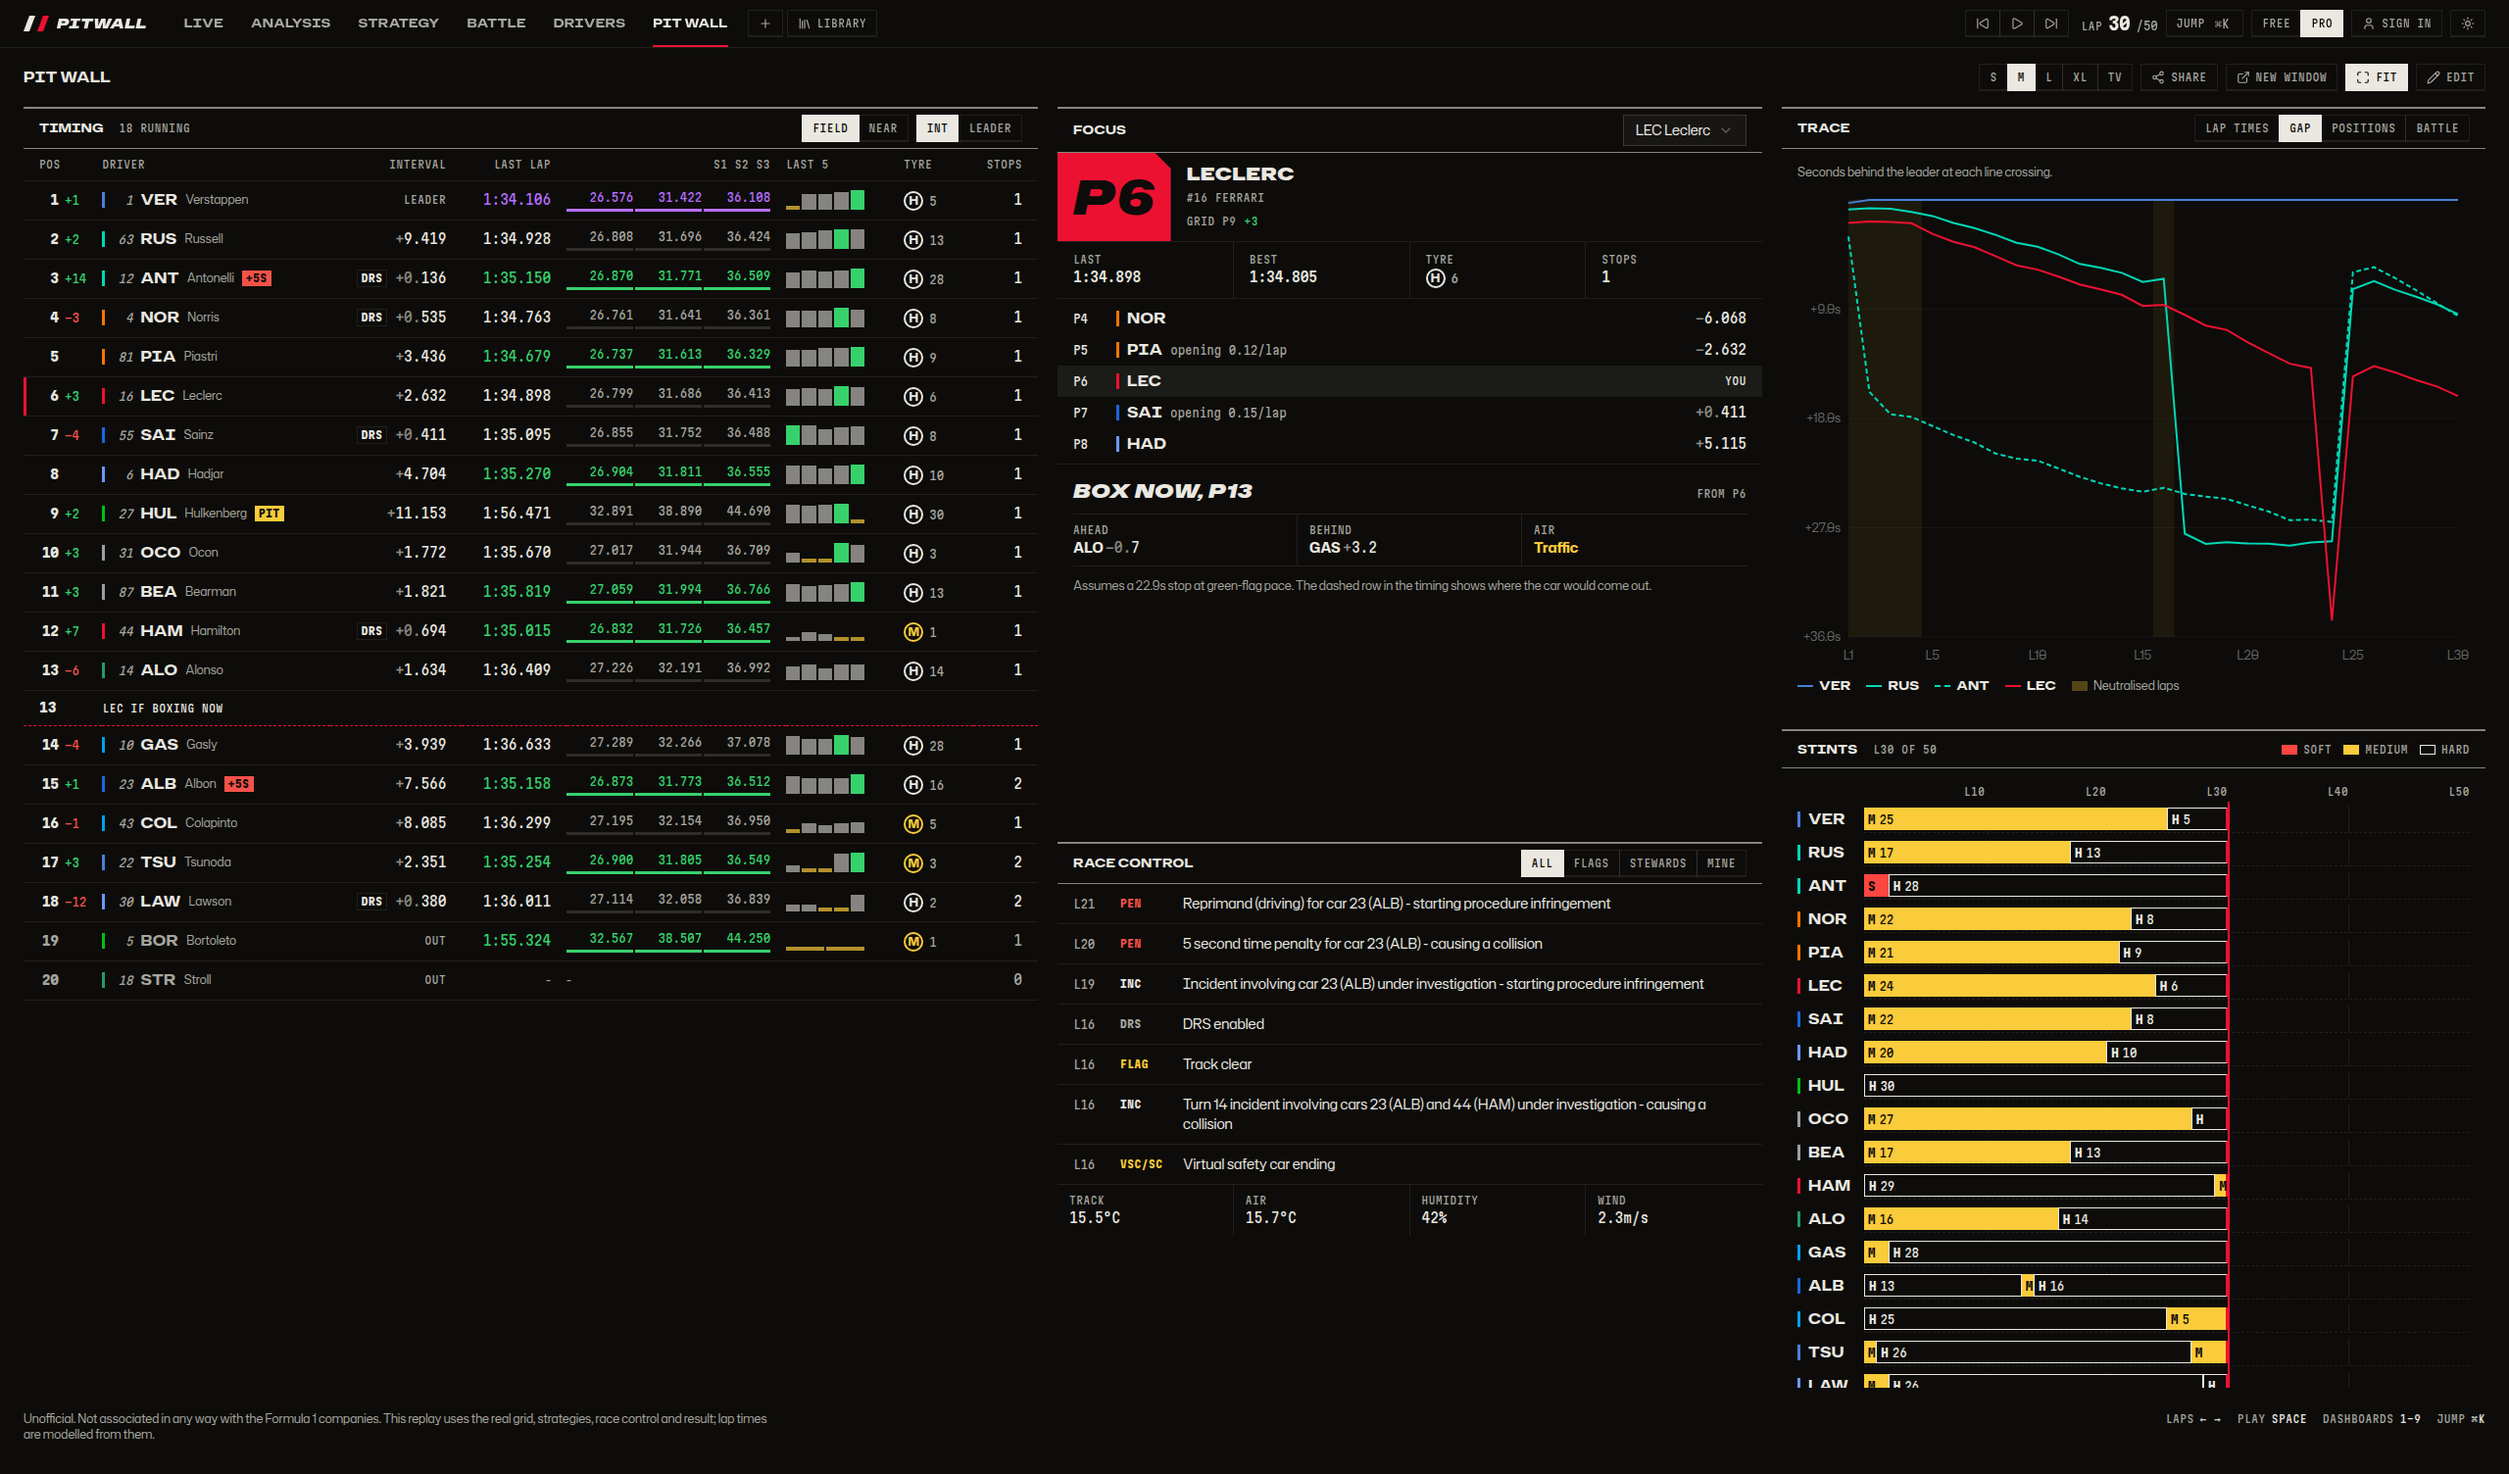
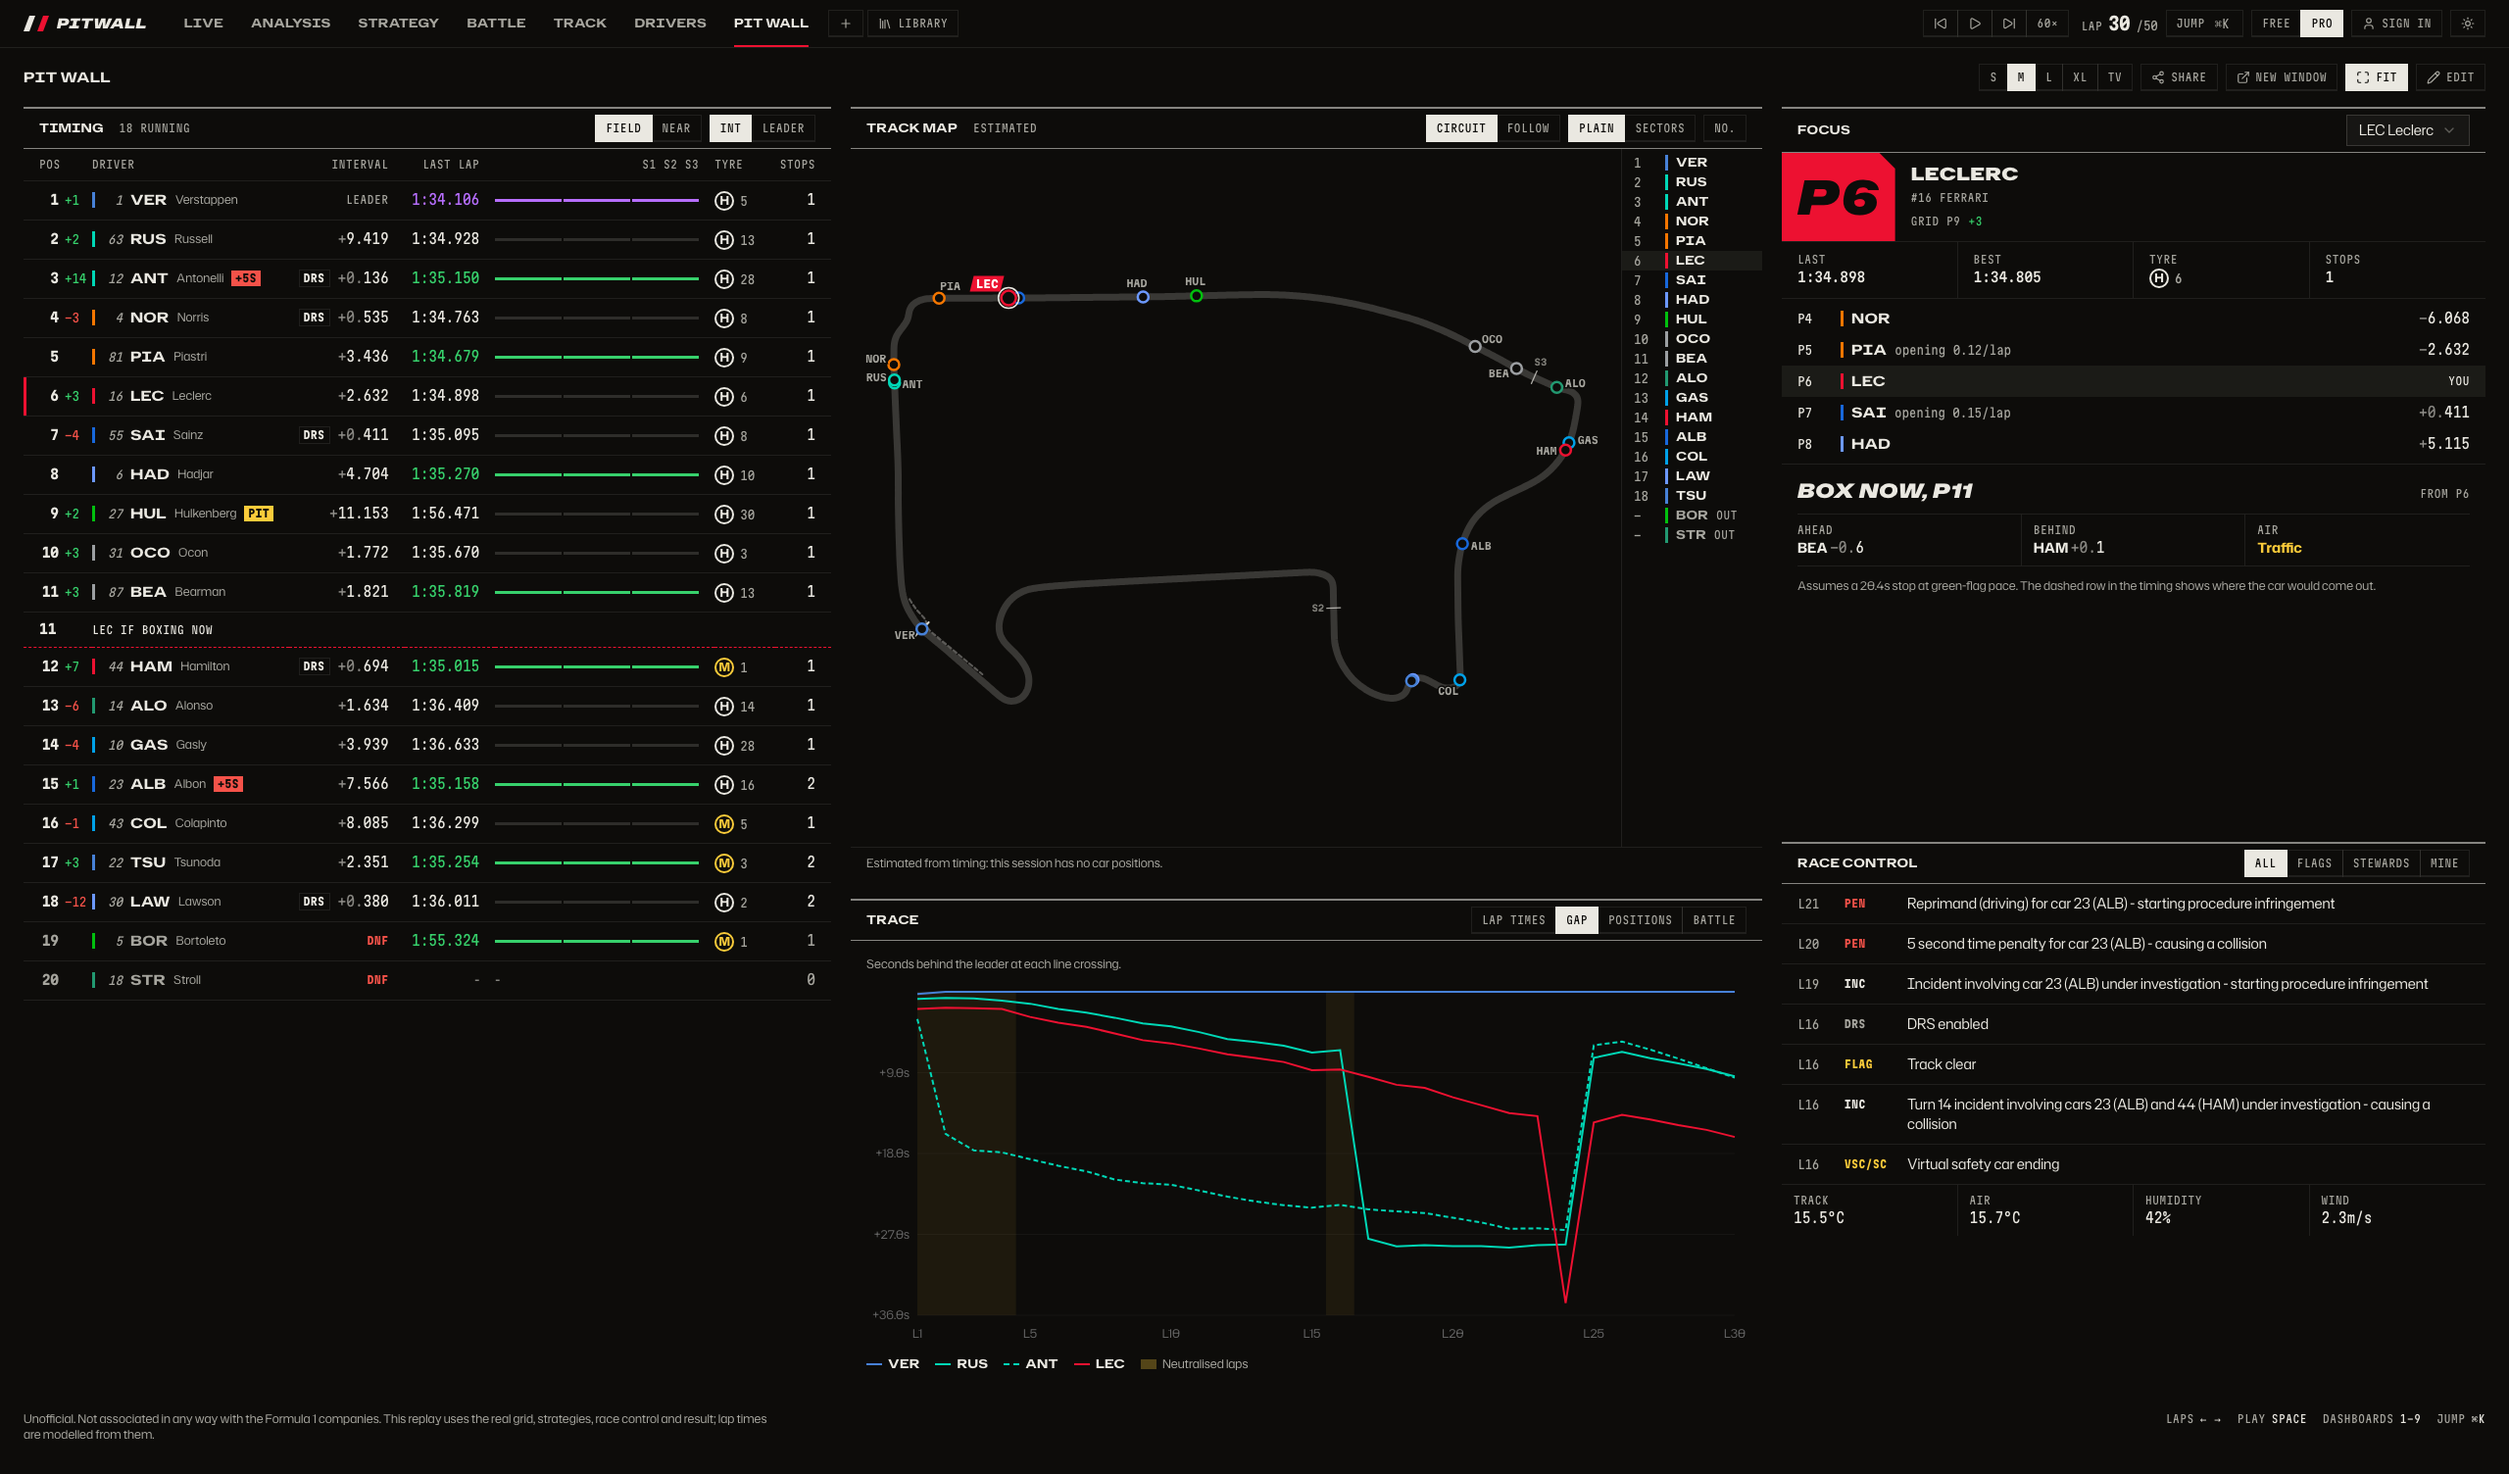
docs: the new pit wall and Track screenshots, and final performance figures

diff --git a/docs/research/track-map-performance.md b/docs/research/track-map-performance.md
@@ -1,8 +1,8 @@
 # Track map performance
 
 The maps hold 60 fps while a replay plays at 1× and 10× on the Pit wall preset at 2560 px, with
-the main thread busy 6% of the time, and still about 59 fps with the CPU slowed four times. Six
-maps at once (the Track preset) hold 58 to 60 fps.
+the main thread busy about 5% of the time, and still about 58.5 fps with the CPU slowed four
+times. Six maps at once (the Track preset) hold 59 to 60 fps.
 
 ## Method
 
@@ -20,21 +20,21 @@ maps at once (the Track preset) hold 58 to 60 fps.
 
 | Speed | Pixel ratio | CPU | fps  | Slowest frame | Main thread busy | Script | Map draw per frame |
 | ----- | ----------- | --- | ---- | ------------- | ---------------- | ------ | ------------------ |
-| 1×    | 1           | ×1  | 60.0 | 17 ms         | 5.7%             | 1.9%   | 0.29 ms            |
-| 10×   | 1           | ×1  | 59.9 | 33 ms         | 5.7%             | 1.9%   | 0.29 ms            |
-| 1×    | 2           | ×1  | 60.0 | 17 ms         | 11.2%            | 2.1%   | 0.33 ms            |
-| 10×   | 2           | ×1  | 60.0 | 17 ms         | 10.9%            | 2.1%   | 0.31 ms            |
-| 1×    | 1           | ×4  | 59.3 | 100 ms        | 24.3%            | 8.4%   | 1.30 ms            |
-| 10×   | 1           | ×4  | 59.0 | 133 ms        | 24.1%            | 8.0%   | 1.29 ms            |
-| 1×    | 2           | ×4  | 58.7 | 167 ms        | 42.7%            | 7.6%   | 1.18 ms            |
-| 10×   | 2           | ×4  | 58.4 | 217 ms        | 44.4%            | 8.5%   | 1.36 ms            |
+| 1×    | 1           | ×1  | 60.0 | 17 ms         | 5.2%             | 1.5%   | 0.24 ms            |
+| 10×   | 1           | ×1  | 60.0 | 17 ms         | 5.6%             | 1.7%   | 0.26 ms            |
+| 1×    | 2           | ×1  | 59.9 | 33 ms         | 10.3%            | 1.7%   | 0.26 ms            |
+| 10×   | 2           | ×1  | 59.6 | 50 ms         | 13.3%            | 2.5%   | 0.39 ms            |
+| 1×    | 1           | ×4  | 58.6 | 183 ms        | 25.7%            | 8.9%   | 1.38 ms            |
+| 10×   | 1           | ×4  | 58.8 | 133 ms        | 25.4%            | 8.4%   | 1.32 ms            |
+| 1×    | 2           | ×4  | 58.5 | 200 ms        | 46.0%            | 8.9%   | 1.33 ms            |
+| 10×   | 2           | ×4  | 58.3 | 233 ms        | 45.9%            | 8.2%   | 1.30 ms            |
 
 ## Track preset: six maps at once
 
 | Speed | Pixel ratio | CPU | fps  | Main thread busy | Map draws a second | Draw per map frame |
 | ----- | ----------- | --- | ---- | ---------------- | ------------------ | ------------------ |
-| 10×   | 1           | ×1  | 59.3 | 22.2%            | 314                | 0.21 ms            |
-| 10×   | 1           | ×4  | 58.2 | 80.3%            | 307                | 0.80 ms            |
+| 10×   | 1           | ×1  | 59.9 | 20.7%            | 312                | 0.17 ms            |
+| 10×   | 1           | ×4  | 58.9 | 72.7%            | 312                | 0.63 ms            |
 
 Before the circuit was drawn once per still camera and copied, the same ×4 run held 34 fps with
 the main thread 98% busy.
@@ -52,5 +52,5 @@ the main thread 98% busy.
 ## Not measured
 
 - A real phone and a real mid laptop: the CPU throttling is an estimate of them.
-- The slowest single frames under ×4 throttling (100 to 217 ms) were not traced to a cause; they
+- The slowest single frames under ×4 throttling (130 to 230 ms) were not traced to a cause; they
   come a few times in 8 s and the average stays at 58 to 59 fps.

diff --git a/docs/screenshots.md b/docs/screenshots.md
@@ -9,13 +9,23 @@ cars load over them.
 
 ## Wide monitors
 
-Pit wall preset on a 2560px monitor, rows fitted to the window height:
+Pit wall preset on a 2560px monitor, rows fitted to the window height, with the track map
+beside the timing:
 
 ![Pit wall at 2560px](screenshots/pit-wall-2560.png)
 
 Analysis at 2560px:
 
 ![Analysis at 2560px](screenshots/analysis-2560.png)
+
+## Track
+
+The Track preset on real data (the 2025 Las Vegas race at lap 30, from the e2e fixture): the
+track map from the replay's car positions, the battle map, the pit rejoin ghost, mini-sector
+dominance, the flag map and LEC's lap painted by speed. On the mock replay the same tiles place
+the cars from timing alone and say "Estimated".
+
+![Track preset on real data, dark](screenshots/track-real-desktop-dark.png)
 
 ## Desktop
 
